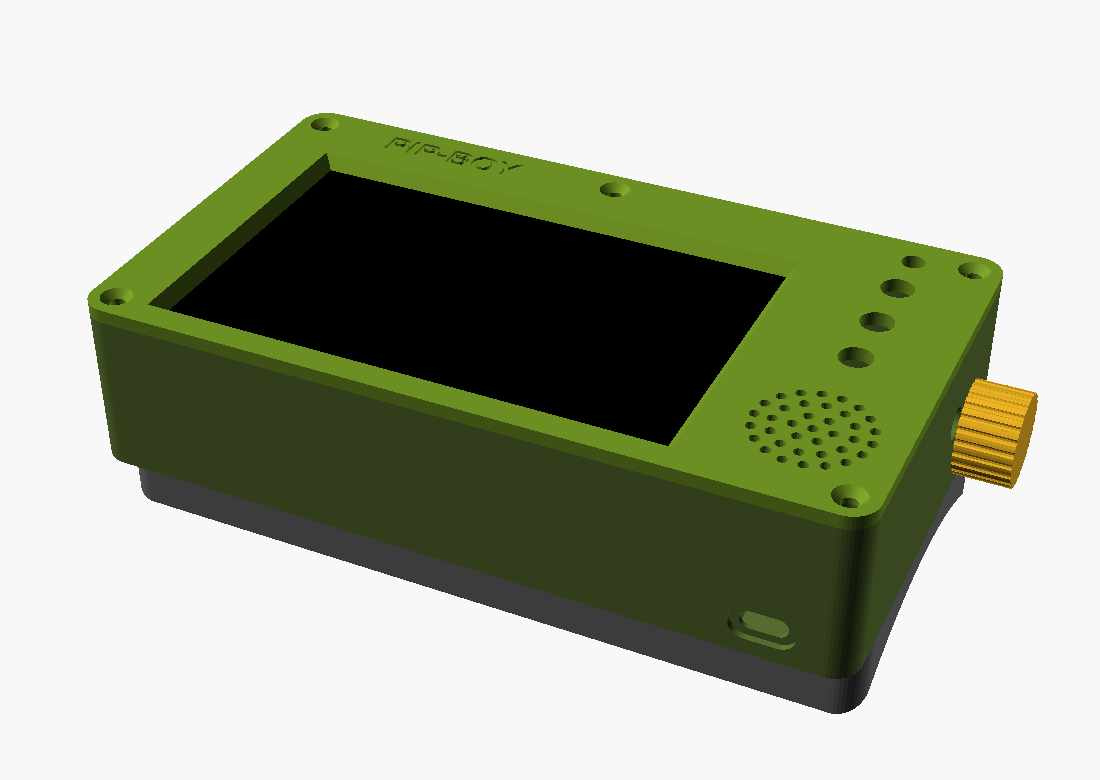
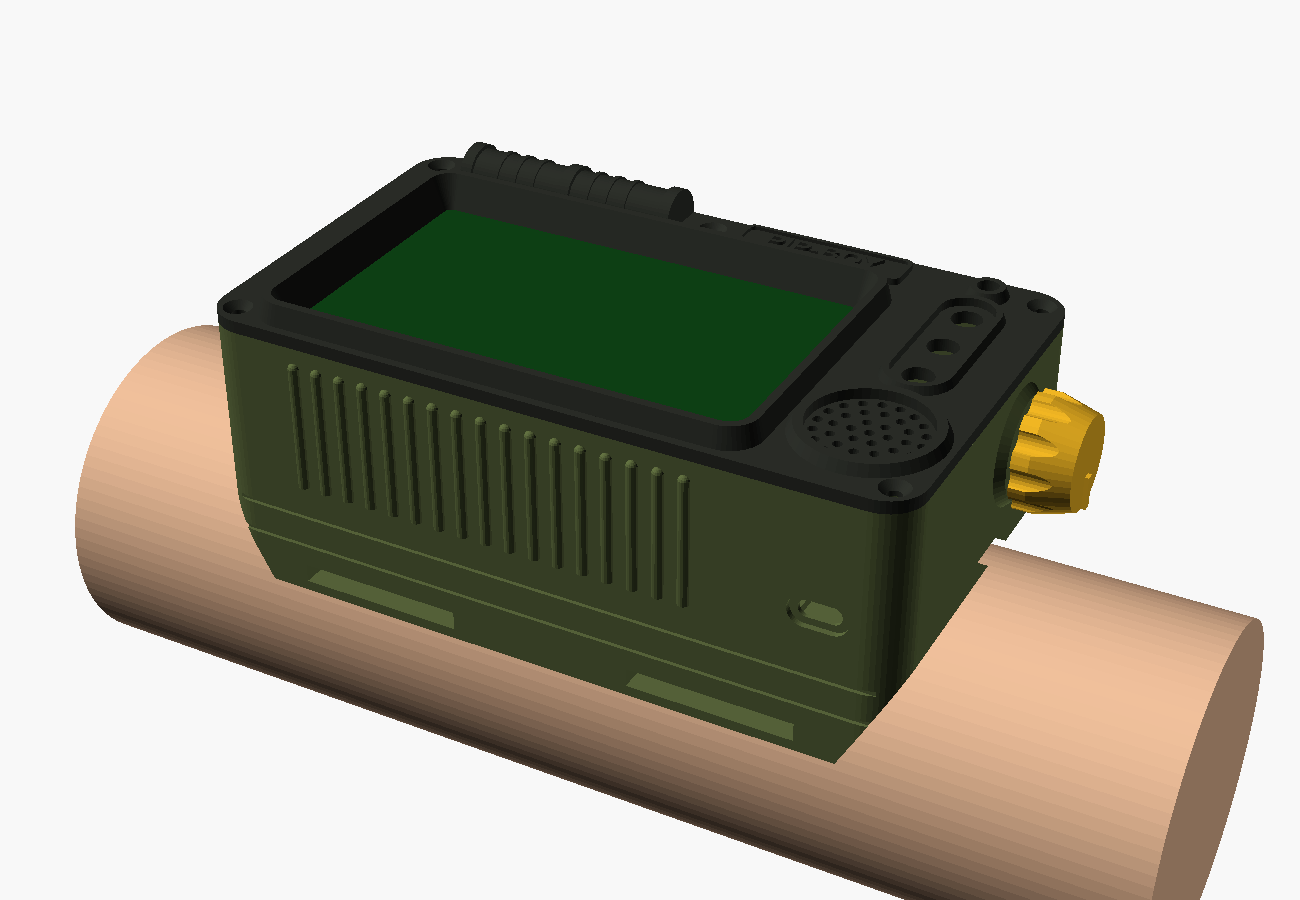
Restyle the Zero 3 enclosure as v0.2 with Pip-Boy detailing
Add a raised CRT-style screen hood, top canister, nameplate, raised
control panel, wall ribs, heat-sink fins and a toothed knob. Replace the
flat saddle with a wrap-around cuff with raked ends and strap slots in
the wings. The bezel now prints face up.

Claude-Session: https://claude.ai/code/session_01UhhE4ADUExfatDZwRSZVxs

diff --git a/docs/pipboy-zero3.md b/docs/pipboy-zero3.md
@@ -1,38 +1,53 @@
 # Pip-Boy de muñeca: Orange Pi Zero 3 + pantalla HDMI de 5"
 
-Carcasa imprimible en 3D, paramétrica, en [`cad/pipboy-zero3-v0.1.scad`](../cad/pipboy-zero3-v0.1.scad).
-Es la **v0.1**: un primer bloque funcional para validar medidas y encaje, todavía sin el
-acabado estético del Pip-Boy.
+Carcasa imprimible en 3D, paramétrica, en [`cad/pipboy-zero3-v0.2.scad`](../cad/pipboy-zero3-v0.2.scad).
 
-![Conjunto montado](img/zero3-assembly.png)
-![Vista explosionada](img/zero3-exploded.png)
+![Conjunto montado sobre el antebrazo](img/zero3-assembly.png)
+![Vista frontal](img/zero3-front.png)
 
-Tamaño exterior: **168 × 96 × 38,5 mm**, más un brazalete de 5,5 a 16 mm de grosor.
+La v0.2 añade el aspecto Pip-Boy sobre la base funcional de la v0.1:
+
+- **Visera de pantalla** en relieve, con la abertura abocinada como el marco de un CRT.
+- **Cilindro superior** con collares y anillos, y **placa de nombre** en relieve (`LABEL`).
+- **Panel de controles**: aro del altavoz, riel alrededor de los tres pulsadores y embellecedor del LED.
+- **Nervaduras** en las paredes largas y **aletas de disipador** entre las ranuras de ventilación.
+- **Perilla dentada** con collar cónico en el lateral.
+- **Brazalete envolvente** con alas que abrazan el antebrazo y extremos inclinados.
+
+Tamaño: cuerpo de **169 × 96 mm** y 47 mm de alto hasta el cilindro superior. El brazalete
+cuelga 32 mm por debajo.
+
+Pensada para imprimir en dos tonos: cuerpo y brazalete en verde oliva, marco en negro o gris
+oscuro y perilla en latón o dorado.
 
 ## Piezas
 
 | Pieza | `PART` | Orientación de impresión | Soportes |
 |---|---|---|---|
 | Cuerpo | `body` | Suelo sobre la cama, abierto hacia arriba | No |
-| Marco frontal | `bezel` | Cara vista sobre la cama (el archivo ya sale girado) | No |
-| Brazalete | `cuff` | Cara plana sobre la cama (ya sale girado) | No |
+| Marco frontal | `bezel` | Cara inferior plana sobre la cama, relieve hacia arriba | No |
+| Brazalete | `cuff` | Cara plana sobre la cama, alas hacia arriba (el archivo ya sale girado) | No |
 | Perilla del encoder | `knob` | Tal cual | No |
 
 ```bash
 # Exportar cada pieza
 for p in body bezel cuff knob; do
-  openscad -o pipboy-$p.stl -D "PART=\"$p\"" cad/pipboy-zero3-v0.1.scad
+  openscad -o pipboy-$p.stl -D "PART=\"$p\"" cad/pipboy-zero3-v0.2.scad
 done
 
 # Vista previa (assembly | exploded)
-openscad -D 'PART="exploded"' cad/pipboy-zero3-v0.1.scad
+openscad -D 'PART="exploded"' cad/pipboy-zero3-v0.2.scad
 ```
 
-Las cuatro piezas exportan como sólidos válidos en OpenSCAD 2021.01. La pieza más larga mide
-168 mm, así que cabe en camas de 180 × 180 mm o mayores.
+Las cuatro piezas exportan como sólidos válidos en OpenSCAD 2021.01 y no se solapan entre sí
+ni con la electrónica modelada. La pieza más larga mide 174 mm (cuerpo con aletas y collar),
+así que cabe en camas de 180 × 180 mm o mayores.
 
-Ajustes sugeridos: PETG (aguanta mejor el calor de la placa que el PLA), capa de 0,2 mm,
-3 perímetros, 20 % de relleno.
+Ajustes sugeridos: PETG (aguanta mejor el calor de la placa que el PLA), capa de 0,2 mm y
+3 perímetros. El brazalete es macizo (237 cm³): imprímelo con 10-15 % de relleno. Las ranuras
+de las correas son puentes de 40 mm.
+
+![Vista explosionada](img/zero3-exploded.png)
 
 ## Qué va dentro
 
@@ -44,20 +59,21 @@ Ajustes sugeridos: PETG (aguanta mejor el calor de la placa que el PLA), capa de
 | Bahía bajo la pantalla (26 mm) | Orange Pi Zero 3 (55 × 50 mm) | 4 separadores de 4 mm, tornillos M2,5 autorroscantes |
 | Bahía, borde inferior | Celda 21700 | Dos cunas y topes; fijar con brida o cinta de doble cara |
 | Canal superior (12 mm) | Cable plano HDMI y USB de la pantalla | Libre |
-| Módulo lateral (34 mm) | Altavoz de 28 mm, 3 pulsadores de 7 mm, LED de 5 mm, módulo de carga | Al marco y al suelo |
+| Módulo lateral (34 mm) | Altavoz de 28 mm, 3 pulsadores de 7 mm, LED de 5 mm, módulo de carga | Altavoz pegado tras la rejilla; pulsadores con su tuerca |
 | Pared derecha | Encoder rotativo EC11 con perilla | Rosca M7 |
 | Pared superior | Interruptor de palanca de 6 mm (encendido) | Rosca M6 |
 | Pared inferior | Puerto USB-C de carga | Ventana con rebaje para el conector |
 
-Hay ranuras de ventilación en la pared superior y en el extremo izquierdo, junto a la placa.
+## Brazalete
 
-El brazalete se atornilla desde el lado del brazo (4 × M3×10, cabezas embutidas) y deja dos
-canales de 40 × 3 mm entre él y el cuerpo para pasar correas de velcro de 38 mm. La curva es
-suave (radio 80 mm): está pensada para forrarla con goma EVA.
+![Vista lateral](img/zero3-side.png)
 
-![Brazalete](img/zero3-cuff.png)
+El brazalete se atornilla desde el lado del brazo (4 × M3×8, cabezas embutidas). Tiene radio
+interior de 43 mm (`R_ARM`) y alas que bajan 68° por cada lado (`WRAP`). Cuatro ranuras de
+40 × 4,5 mm en las alas llevan dos correas de velcro de 38 mm. Para antebrazos más delgados,
+fórralo con goma EVA o reduce `R_ARM`.
 
-Tornillería: 5 × M3×8 avellanados (marco), 4 × M3×10 (brazalete), 9 insertos roscados M3 de
+Tornillería: 5 × M3×8 avellanados (marco), 4 × M3×8 (brazalete), 9 insertos roscados M3 de
 calor (Ø exterior 4,2 mm), 4 × M2,5×6 autorroscantes (placa).
 
 ## Medidas que debes comprobar antes de imprimir
@@ -74,6 +90,7 @@ del archivo; mídelas con un calibre en tus piezas.
 | `OPI_ROT` | 0 | Gira la placa 90° si el micro-HDMI queda contra una pared |
 | `USBC_Z` | 5,2 mm | Depende del módulo de carga |
 | `BATT_D`, `BATT_L` | 21,4 × 71 mm | Celda desnuda con lengüetas. Un portapilas no cabe sin ajustar |
+| `R_ARM` | 43 mm | Mide el ancho de tu antebrazo donde irá puesto |
 
 Dos puntos de encaje dependen del modelo exacto de pantalla:
 
@@ -132,12 +149,12 @@ estimación, no una medida.
 - Alimentar por los pines de 5 V es práctica habitual, pero se salta la entrada USB-C y no lo
   he visto confirmado en la documentación oficial.
 
-## Pendiente para la v0.2
+## Pendiente
 
 - Ajustar las cotas con las medidas reales de la pantalla y la placa.
-- Estética Pip-Boy: marco con relieve, extremos redondeados, nervaduras.
 - Sujeción para el encoder (pestaña antigiro) y soporte del amplificador.
 - Acceso exterior a la microSD y al USB-A.
+- Aligerar el brazalete, o cerrarlo del todo con bisagra y pestillo.
 
 ## Fuentes
 

diff --git a/README.md b/README.md
@@ -38,7 +38,7 @@ openscad cad/otto-real-v0.2.scad -o otto-body.stl
 
 ### Wrist Pip-Boy (Orange Pi Zero 3)
 
-`cad/pipboy-zero3-v0.1.scad` is a separate, wrist-mounted enclosure for an **Orange Pi Zero 3**
+`cad/pipboy-zero3-v0.2.scad` is a separate, wrist-mounted enclosure for an **Orange Pi Zero 3**
 and a 5" HDMI display: body, bezel, cuff and encoder knob. See
 [docs/pipboy-zero3.md](docs/pipboy-zero3.md) (Spanish) for parts, print settings, wiring and
 the dimensions to check before printing.
